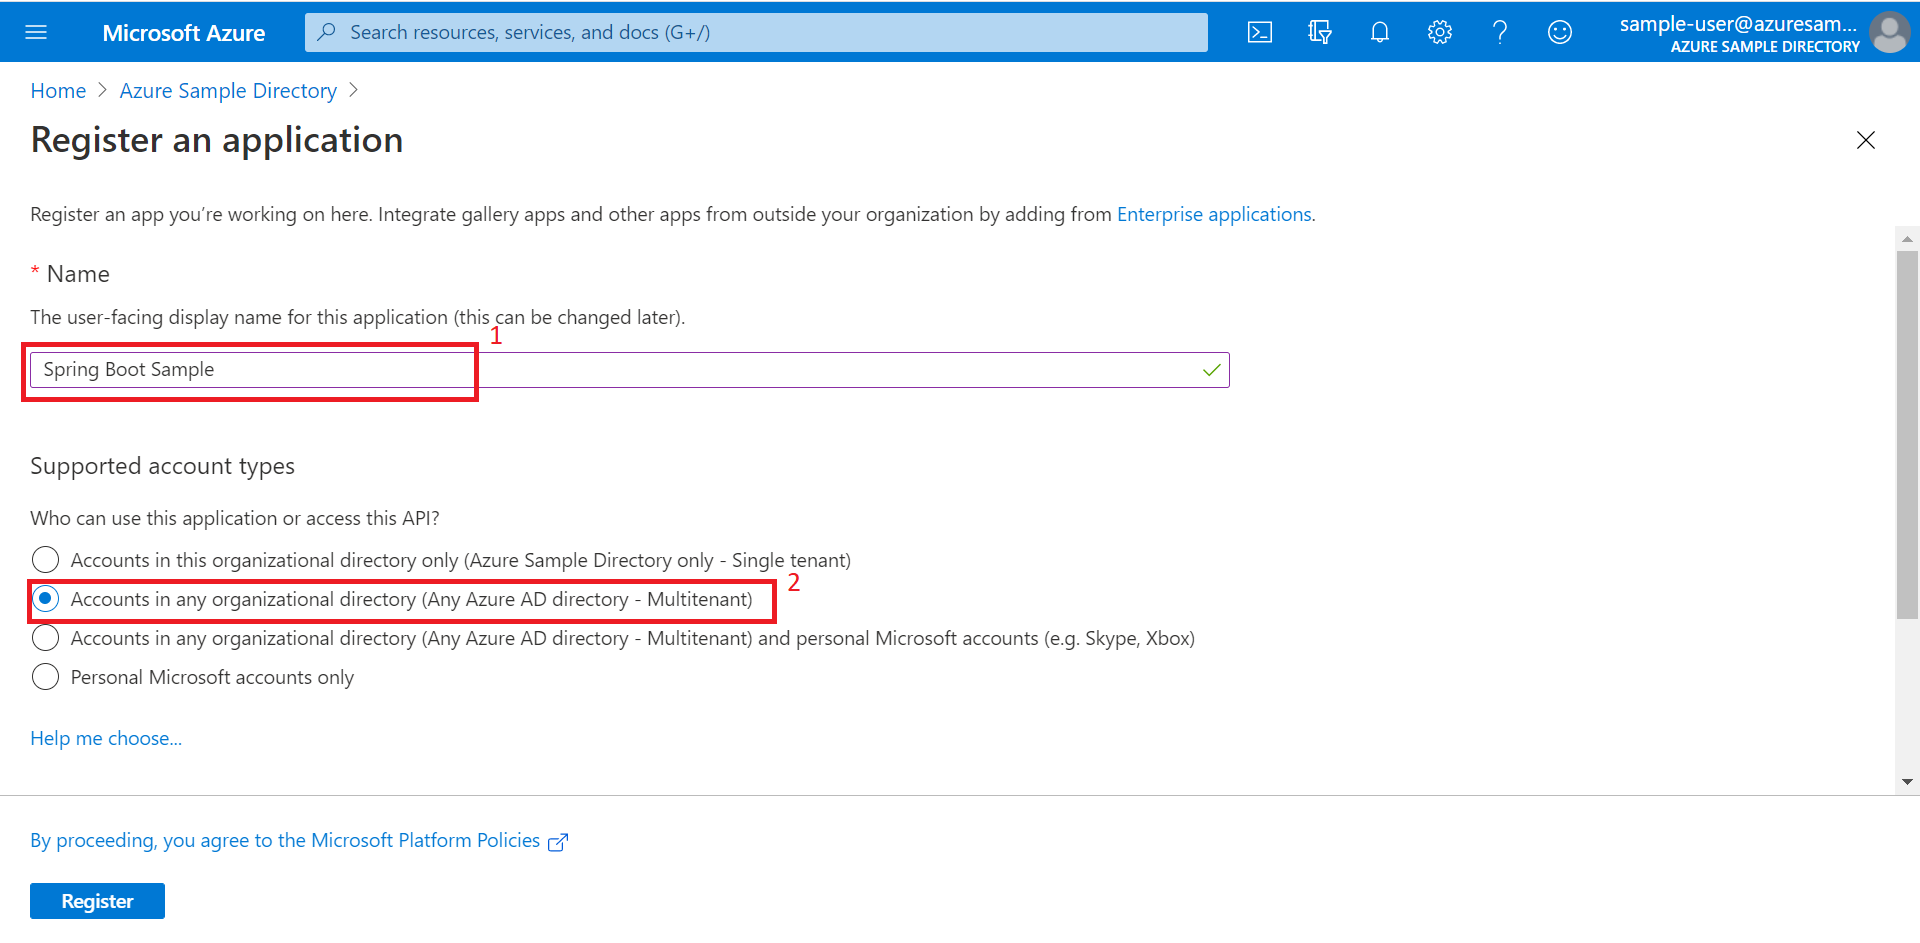
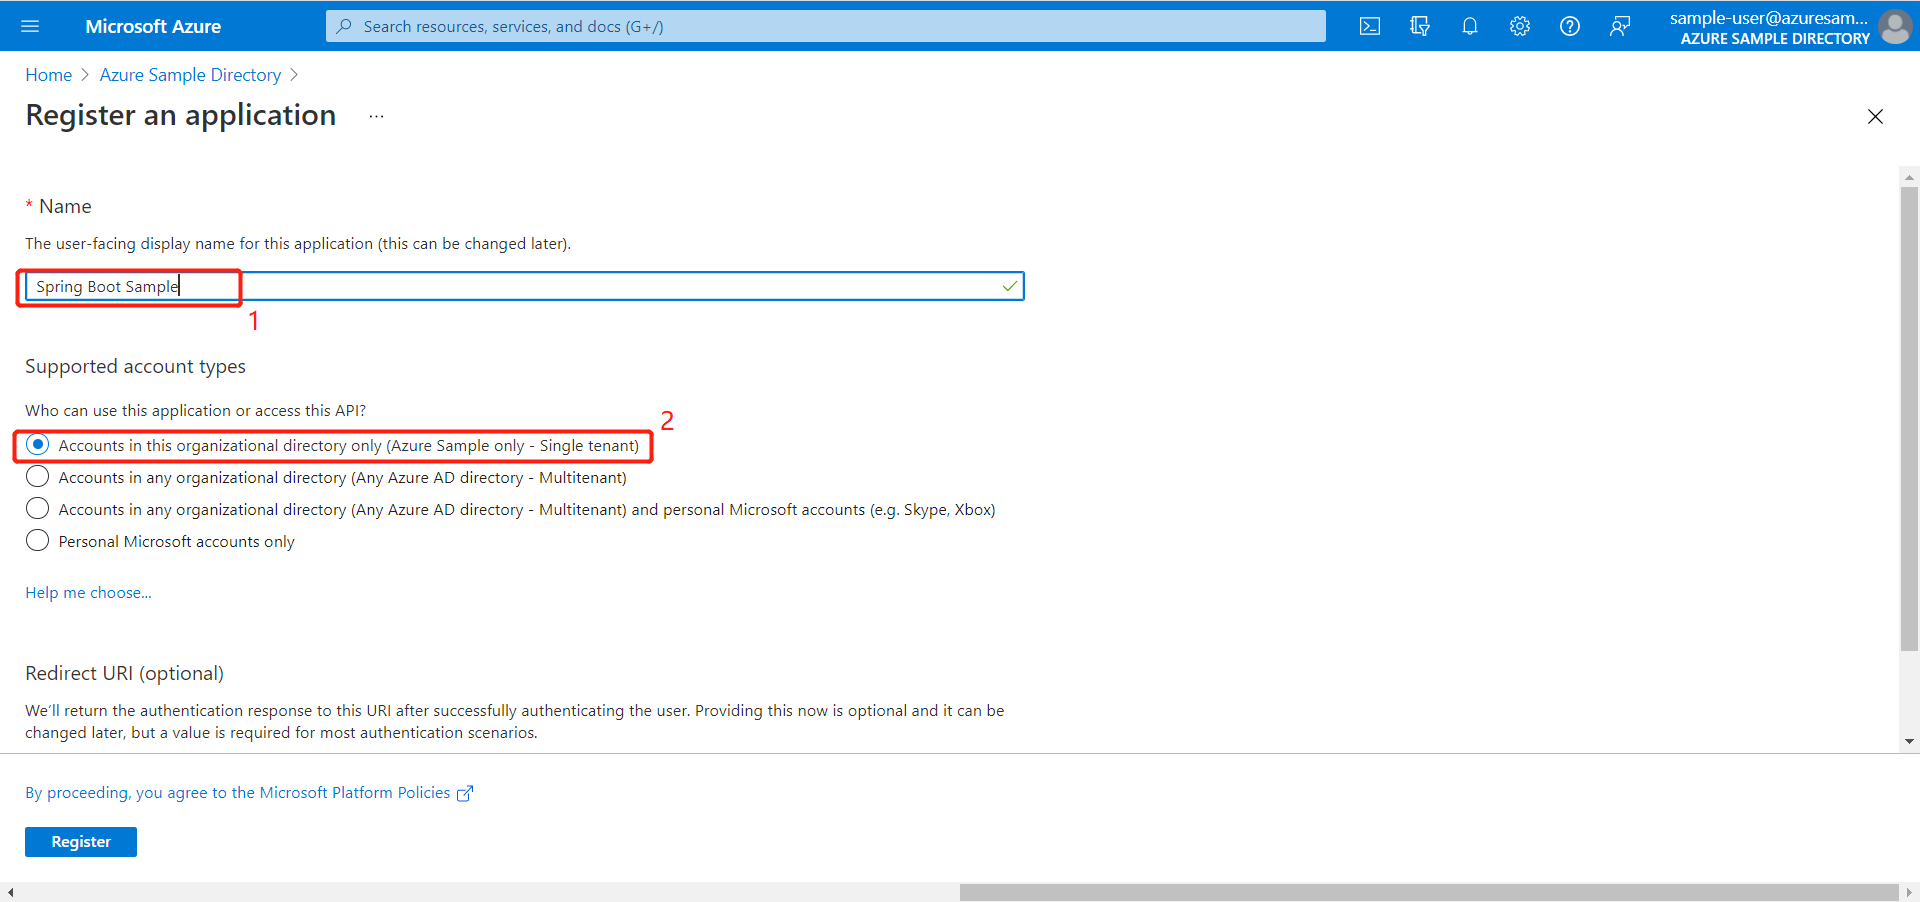
fix link error

diff --git a/aad/azure-spring-boot-starter-active-directory/aad-resource-server-by-filter/README.md b/aad/azure-spring-boot-starter-active-directory/aad-resource-server-by-filter/README.md
@@ -40,7 +40,7 @@ or download and extract the repository .zip file, and navigate to `azure-spring-
 ---
 ### Step 2:  Register the sample with your Azure Active Directory tenant
 
-To register it follow the steps below or follow the guide [here](https://docs.microsoft.com/azure/active-directory/develop/v1-protocols-oauth-code#register-your-application-with-your-ad-tenant).
+To register it follow the steps below or follow the guide [here](https://docs.microsoft.com/en-us/azure/active-directory/develop/quickstart-register-app#register-an-application).
 
 #### Choose the Azure AD tenant where you want to create your applications
 
@@ -55,7 +55,7 @@ As a first step you'll need to:
 1. Navigate to the Microsoft identity platform for developers [App registrations](https://go.microsoft.com/fwlink/?linkid=2083908) page.
 1. Select **New registration**.
    - In the **Name** section, enter a meaningful application name that will be displayed to users of the app, for example `Spring Boot Sample`.
-   - In the **Supported account types** section, select **Accounts in any organizational directory**.
+   - In the **Supported account types** section, select **Accounts in this organizational directory only**.
    - Choose **Single-page application(SPA)** as application type.
    - Add `http://localhost:8080` as the `Reply URL` under Redirect URI.
    - Select **Register** to create the application. ![register_the application](docs/application-registration-1.png "register the application")![register_the application](docs/application-registration-2.png "register the application")

diff --git a/aad/azure-spring-boot-starter-active-directory/aad-resource-server-by-filter-stateless/README.md b/aad/azure-spring-boot-starter-active-directory/aad-resource-server-by-filter-stateless/README.md
@@ -26,7 +26,7 @@ to get it working with your Azure AD tenant on both sides.
 
 ### Register your application with your Azure Active Directory Tenant
 
-Follow the guide [here](https://docs.microsoft.com/azure/active-directory/develop/v1-protocols-openid-connect-code#register-your-application-with-your-ad-tenant).
+Follow the guide [here](https://docs.microsoft.com/en-us/azure/active-directory/develop/quickstart-register-app#register-an-application).
 
 ### Configure appRoles
 
